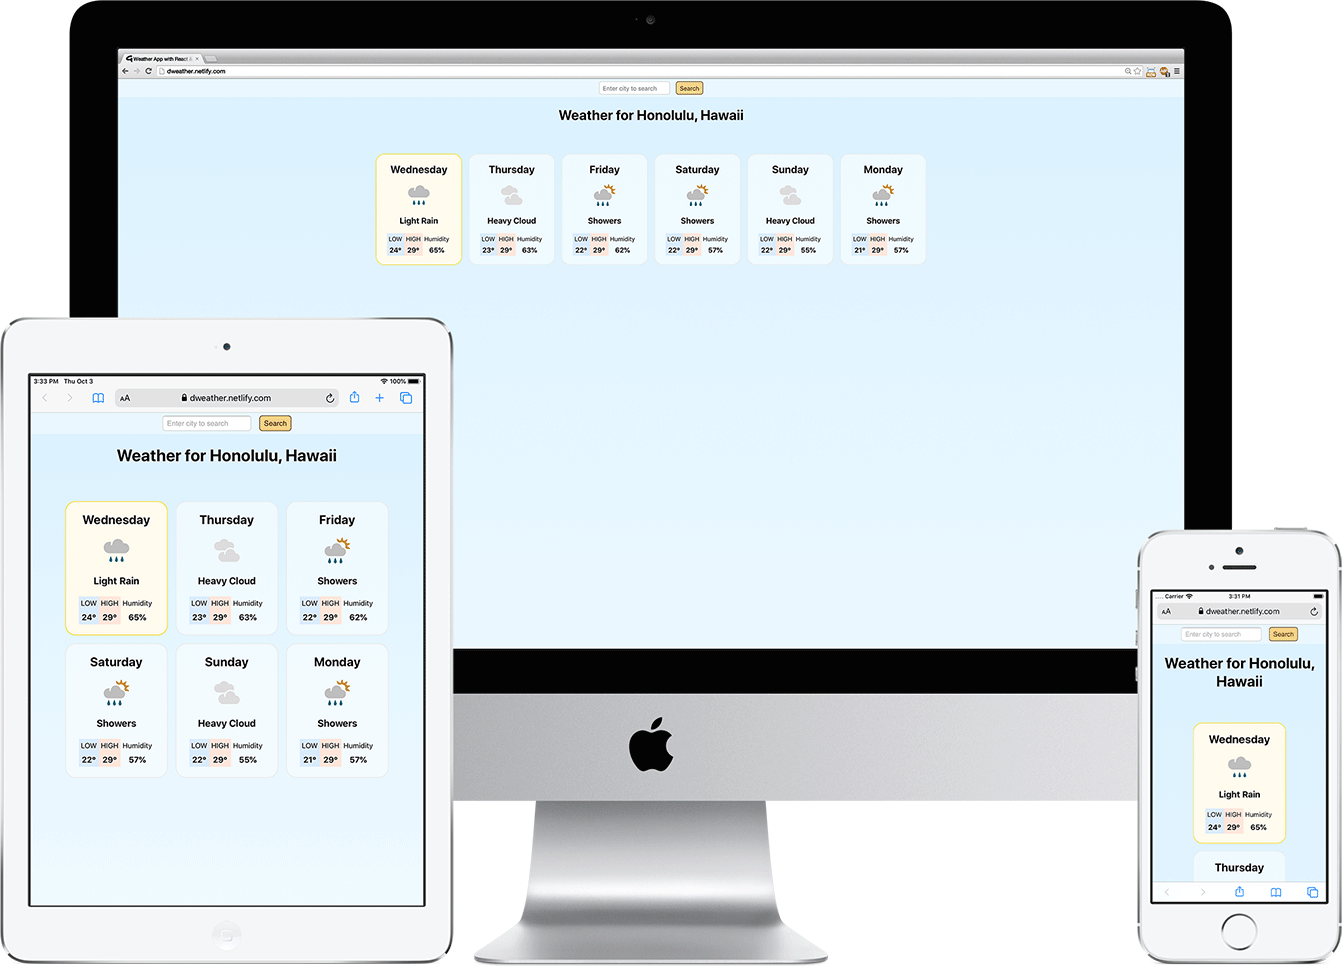
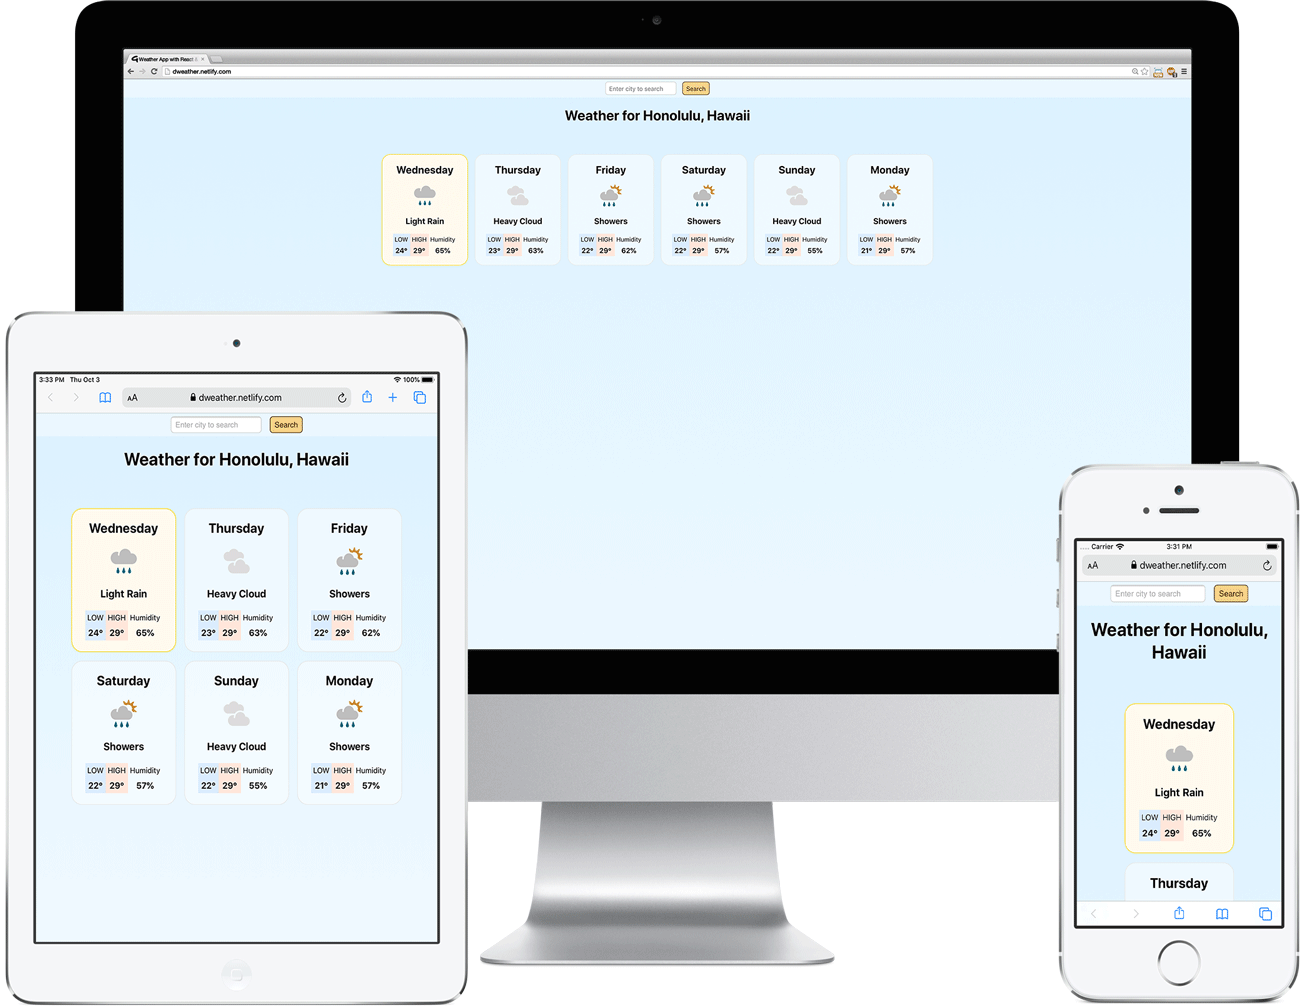
optimized images. added new projects, refactored portfolio with links to github, site, and conditional rendering of elements.

Changed region(s): [[0.0, 0.0, 1.0, 1.0], [0.2763, 0.1553, 0.7061, 0.2795]]

diff --git a/react-portofolio/src/data/portfolio.js b/react-portofolio/src/data/portfolio.js
@@ -1,3 +1,5 @@
+import Geograpics from '../imgs/geograpics-app.png';
+import ExPatBackend from '../imgs/ExPat-Backend.png';
 import WeatherApp from '../imgs/weather-app.png';
 import PuppySpot from '../imgs/PuppySpot.png';
 import ChristianMingle from '../imgs/CM-Splash.png';
@@ -7,39 +9,80 @@ import UCLA from '../imgs/UCLA-Vol.png';
 
 export const portfolio = [
   {
+    image: Geograpics,
+    alt_text: "Geograpics Screenshots",
+    title: "Geograpics",
+    copy: "5x developers, 2x UI designers, 1x team lead. We created an app that pulls live data from an instagram account and displays it on a map with login. The challenge for this project was using social auth and grabbing that data to display on the frontend. We have further developments such as blog entries and photo uploading as future functionality.",
+    tech_stack: "React, Redux, node.js, express, passport.js",
+    dependencies: "react-router-dom, node-sass, react-loader-spinner, react-map-gl, redux-logger, redux-thunk, prop-types, axios, cors, dotenv, helmet, jsonwebtoken, knex, pg, sqlite3, jest, nodemon, supertest, cross-env",
+    github: "//github.com/Lambda-School-Labs/geograpics-fe",
+    app_link: "//www.geograpics.com/",
+    app_name: "Geograpics"
+  },
+  {
+    image: ExPatBackend,
+    alt_text: "Screenshot of Server Code",
+    title: "ExPat Journal",
+    copy: "Backend for an ExPat Journaling app. The challenge of this project was creating endpoints and working with the frontend developers to create the app. Providing endpoints that they expected and documneting what they needed to give me and expect in return.",
+    tech_stack: "node.js, express, knex, pg, sqlite3",
+    dependencies: "bcrypt, cors, dotenv, helmet, jsonwebtoken, knex-cleaner, nodemon, jest, supertest, cross-env",
+    github: "//github.com/ExpatJournal/Back-End",
+    app_link: "//expatjournal.herokuapp.com/",
+    app_name: "Expat Backend"
+  },
+  {
     image: WeatherApp,
     alt_text: "Weather App Screenshots",
     title: "Weather App",
-    copy: "A small weather app that uses a public API. The challengeof this project was using their endpoints to retrieve the data I wanted to display.",
+    copy: "A small weather app that uses a public API. The challenge of this project was using their endpoints to retrieve the data I wanted to display.",
     tech_stack: "React, Redux",
-    dependencies: "react-router-dom, redux-thunk, node-sass, axios, react-loader-spinner"
+    dependencies: "react-router-dom, redux-thunk, node-sass, axios, react-loader-spinner",
+    github: "//github.com/dhamano/React-Redux-App",
+    app_link: "//weather.dhamano.dev/",
+    app_name: "Weather App"
   },
   {
     image: PuppySpot,
+    alt_text: "PuppySpot.com Screenshots",
     title: "PuppySpot.com Website",
     copy: "I was a contractor working with the PuppySpot development team. The main challenge of this project was making sure that the code created in such a way that the dev. team could easily templatize it on hand-off.",
     tech_stack: "HTML, CSS/SCSS, jQuery, Zurb Foundation",
-    dependencies: null
+    dependencies: null,
+    github: null,
+    app_link: "//www.puppyspot.com",
+    app_name: "PuppySpot.com"
   },
   {
     image: ChristianMingle,
+    alt_text: "ChristianMingle Splash Page Screenshots",
     title: "ChristianMingle.com Splash Page",
     copy: "As part of the design team at Spark Networks, I designed and coded this round of splash pages for the ChristianMingle website. It was the first time we turned away from our old version after having succeeded in A/B testing.",
     tech_stack: "HTML, CSS, jQuery, Zurb Foundation",
-    dependencies: null
+    dependencies: null,
+    github: null,
+    app_link: "//www.christianmingle.com",
+    app_name: "ChristianMingle.com"
   },
   {
     image: Faith,
+    alt_text: "Faith.com Screenshots",
     title: "Faith.com Website",
-    copy: "With no developer available for this project, they asked since it was known that I could code. The challenege for this project was taking what we already had and turning it into a responsive site so that the dev. team could templatize and implement it.",
+    copy: "With no developer available for this project, they asked since it was known that I could code. The challenege for this project was taking what we already had and turning it into a responsive site so that the developer team could templatize and implement it.",
     tech_stack: "HTML, CSS, jQuery, Zurb Foundation",
-    dependencies: null
+    dependencies: null,
+    github: null,
+    app_link: "//www.faith.com",
+    app_name: "Faith.com"
   },
   {
     image: UCLA,
+    alt_text: "UCLA Volunteer Website Screenshots",
     title: "UCLA Volunteer Website",
-    copy: "The biggest challenge for this project was getting that header collage to work grab live data from facebook and Flickr, display user photos of the tagged posts then, on click, display the user’s quote about the Volunteer Day Activity they participated in.",
+    copy: "The biggest challenge for this project was getting that header collage to work grab live data from facebook and Flickr, display user photos of the tagged posts then, on click, display the user’s quote about the Activity they participated in.",
     tech_stack: "HTML, CSS, PHP, JavaScript",
-    dependencies: null
+    dependencies: null,
+    github: null,
+    app_link: "//volunteer.ucla.edu/",
+    app_name: "UCLA Volunteer Center"
   }
 ]

diff --git a/react-portofolio/src/components/Navigation.js b/react-portofolio/src/components/Navigation.js
@@ -1,6 +1,8 @@
 import React, { useState, useEffect } from 'react';
 import { NavLink } from 'react-router-dom';
 
+import { scroll } from '../utilities/functions';
+
 const Navigation = () => {
   const [ menuOpen, setMenuOpen ] = useState(false);
   
@@ -18,43 +20,10 @@ const Navigation = () => {
     }
   }, [menuOpen])
 
-  const scroll = e => {
+  const scrollPage = e => {
     e.preventDefault();
     toggleMenuOpen();
-    let name = e.target.title,
-    el = document.getElementById(name.toString());
-    if (!el) { return; }
-    let elYOffset = el.offsetTop - document.querySelector('header').offsetHeight,
-    startPlace = window.pageYOffset,
-    lastPlace = null;
-    // console.log('el',el);
-    // console.log('elYOffset', elYOffset, 'startPlace',startPlace);
-    const startTime = 'now' in window.performance ? performance.now() : new Date().getTime();
-    if( 'requestAnimationFrame' in window === false ) {
-      let options = {
-        behavior: "smooth",
-        block: "start"
-      }
-      el.scrollIntoView(options);
-    }
-    function scroll() {
-      const now = 'now' in window.performance ? performance.now() : new Date().getTime();
-      const time = Math.min(1, ((now - startTime) / 750));
-      window.scroll(0, Math.ceil((time * (elYOffset - startPlace) + startPlace)));
-      // console.log('window.pageYOffset', window.pageYOffset, 'elYOffset',elYOffset, 'lastPlace', lastPlace);
-  
-      if(window.pageYOffset === elYOffset) {
-        // console.log('FINISHED SCROLLING');
-        return;
-      }
-      if((now-startTime) > 500 && window.pageYOffset === lastPlace) {
-        // console.log('FINISHED SCROLLING');
-        return;
-      }
-      lastPlace = window.pageYOffset;
-      requestAnimationFrame(scroll);
-    }
-    scroll();
+    scroll(e);
   }
 
   return(
@@ -63,9 +32,9 @@ const Navigation = () => {
         <li id="menu" onClick={toggleMenuOpen}>Menu</li>
         <li id="menu-list" className={`${ menuOpen ? 'open' : 'close' }`}>
           <ul>
-            <li><NavLink onClick={scroll} title="home" to="/">Home</NavLink></li>
-            <li><NavLink onClick={scroll} title="project" to="#project">Projects</NavLink></li>
-            <li><NavLink onClick={scroll} title="about" to="#about">About</NavLink></li>
+            <li><NavLink onClick={scrollPage} title="home" to="/">Home</NavLink></li>
+            <li><NavLink onClick={scrollPage} title="project" to="#project">Projects</NavLink></li>
+            <li><NavLink onClick={scrollPage} title="about" to="#about">About</NavLink></li>
           </ul>
         </li>
       </ul>

diff --git a/react-portofolio/src/components/Project.js b/react-portofolio/src/components/Project.js
@@ -5,15 +5,33 @@ const Project = (props) => {
   return(
     <article>
       <div className="container">
-        <img src={props.image} alt={props.alt_text} />
+            {
+              props.image && (
+                <img src={props.image} alt={props.alt_text} />
+              )
+            }
         <div className="text">
-          <h2>{props.title}</h2>
-          <p>
-            {props.copy}
-          </p>
+            {
+              props.title && (
+                <h2>{props.title}</h2>
+              )
+            }
+            {
+              props.copy && (
+                <p>
+                  {props.copy}
+                </p>
+              )
+            }
           <dl>
-            <dt>Tech Stack</dt>
-            <dd>{props.tech_stack}</dd>
+            {
+              props.tech_stack && (
+                <>
+                <dt>Tech Stack</dt>
+                <dd>{props.tech_stack}</dd>
+                </>
+              )
+            }
             {
               props.dependencies && (
                 <>
@@ -23,6 +41,16 @@ const Project = (props) => {
               )
             }
           </dl>
+            {
+              props.github && (
+                <a href={props.github} title="Github" target="_blank">Github</a>
+              )
+            }
+            {
+              props.app_link && (
+                <a href={props.app_link} title="app link" target="_blank">{props.app_name}</a>
+              )
+            }
         </div>
       </div>
     </article>

diff --git a/react-portofolio/src/scss/project.scss b/react-portofolio/src/scss/project.scss
@@ -20,6 +20,10 @@
         line-height: 1.125em;
       }
 
+      dl {
+        margin-bottom: 30px;
+      }
+
       dt, dd {
         font-size: 0.875rem;
       }
@@ -36,6 +40,28 @@
       dd {
         margin-left: 0;
       }
+
+      a {
+        width: 100%;
+        padding: 14px 30px;
+        color: #333;
+        text-decoration: none;
+        text-align: center;
+        font-weight: 600;
+        display: block;
+        border: 2px solid #333;
+        border-radius: 10px;
+        cursor: pointer;
+
+        &:hover, &:active {
+          background: #333;
+          color: #fff;
+        }
+
+        &:last-child {
+          margin-top: 25px;
+        }
+      }
     }
 
     @media #{$tablet} {
@@ -48,6 +74,7 @@
       img {
         width: 100%;
         max-width: 670px;
+        height: 100%;
       }
 
       .text {
@@ -66,6 +93,21 @@
       }
     }
 
+    @media only screen and (min-width: 1158px) {
+
+      .text {
+        a {
+          width: 45%;
+          margin: 0  10% 0 0;
+          display: inline-block;
+  
+          &:last-child {
+            margin: 0;
+          }
+        }
+      }
+    }
+
     @media #{$desktop} {
 
       .container {
@@ -75,9 +117,15 @@
         margin-left: auto;
         display: flex;
         flex-flow: row nowrap;
+        align-items: center;
 
         div.text {
+          margin-top: 0;
           padding-left: 60px;
+
+          h2 {
+            margin-top: 0;
+          }
         }
 
       }

diff --git a/react-portofolio/src/utilities/functions.js b/react-portofolio/src/utilities/functions.js
@@ -1,0 +1,37 @@
+export const scroll = e => {
+    // console.log(e);
+    let name = e.target.title,
+    el = document.getElementById(name.toString());
+    if (!el) { return; }
+    let elYOffset = el.offsetTop - document.querySelector('header').offsetHeight,
+    startPlace = window.pageYOffset,
+    lastPlace = null;
+    // console.log('el',el);
+    // console.log('elYOffset', elYOffset, 'startPlace',startPlace);
+    const startTime = 'now' in window.performance ? performance.now() : new Date().getTime();
+    if( 'requestAnimationFrame' in window === false ) {
+      let options = {
+        behavior: "smooth",
+        block: "start"
+      }
+      el.scrollIntoView(options);
+    }
+    function scroll() {
+      const now = 'now' in window.performance ? performance.now() : new Date().getTime();
+      const time = Math.min(1, ((now - startTime) / 750));
+      window.scroll(0, Math.ceil((time * (elYOffset - startPlace) + startPlace)));
+      // console.log('window.pageYOffset', window.pageYOffset, 'elYOffset',elYOffset, 'lastPlace', lastPlace);
+  
+      if(window.pageYOffset === elYOffset) {
+        // console.log('FINISHED SCROLLING');
+        return;
+      }
+      if((now-startTime) > 500 && window.pageYOffset === lastPlace) {
+        // console.log('FINISHED SCROLLING');
+        return;
+      }
+      lastPlace = window.pageYOffset;
+      requestAnimationFrame(scroll);
+    }
+    scroll();
+  }

diff --git a/react-portofolio/src/components/Footer.js b/react-portofolio/src/components/Footer.js
@@ -1,7 +1,15 @@
 import React from 'react';
 import { Link } from 'react-router-dom';
 
+import { scroll } from '../utilities/functions';
+
 const Footer = () => {
+
+  const scrollPage = e => {
+    e.preventDefault();
+    scroll(e);
+  }
+
   return (
     <footer>
       <p>
@@ -9,9 +17,9 @@ const Footer = () => {
       </p>
       <a href="/" className="logo ir">Dustin Hamano's Logo</a>
       <ul>
-        <li><Link title="home" to="/">Home</Link></li>
-        <li><Link title="portfolio" to="#portfolio">Portfolio</Link></li>
-        <li><Link title="about" to="#about">About</Link></li>
+        <li><Link onClick={scrollPage} title="home" to="/">Home</Link></li>
+        <li><Link onClick={scrollPage} title="project" to="#project">projects</Link></li>
+        <li><Link onClick={scrollPage} title="about" to="#about">About</Link></li>
       </ul>
     </footer>
   )

diff --git a/react-portofolio/src/scss/index.scss b/react-portofolio/src/scss/index.scss
@@ -7,6 +7,7 @@
 body {
   min-width: 320px;
   margin: 0;
+  color: #333;
   font: normal normal 300 1rem/1.25em $font-stack-default;
   letter-spacing: 0.004rem;
   -webkit-font-smoothing: antialiased;
